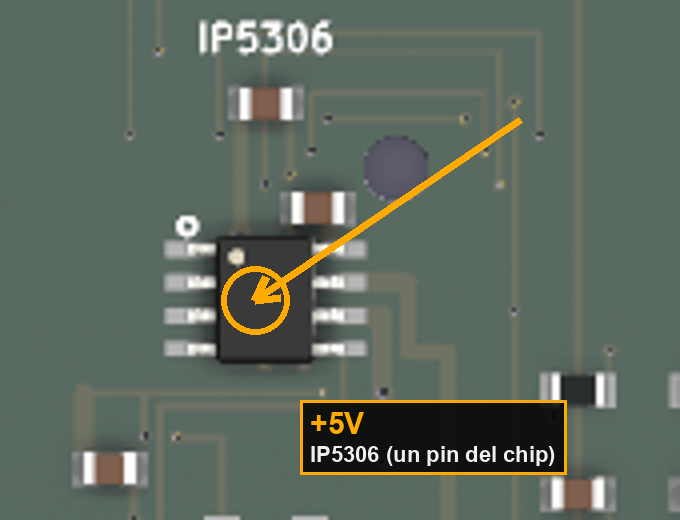
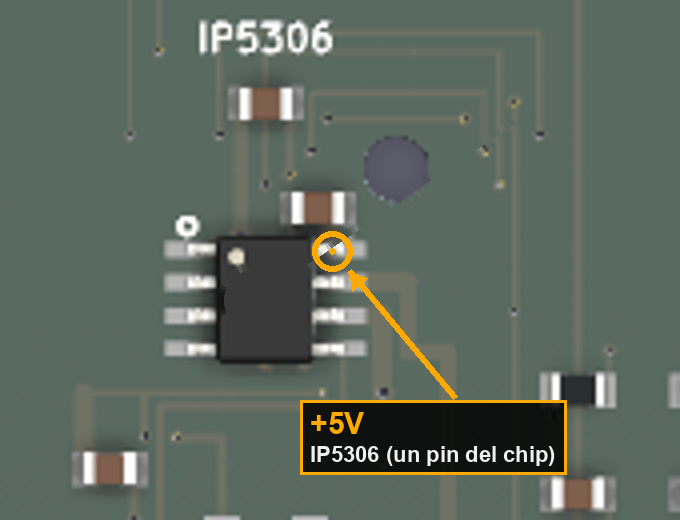
docs(bring-up): fix IP5306 pin labels + reclassify T9 short as inductor L1 false alarm
Root-cause correction on the proto #1 diagnosis:

- Fix pin annotations on 3 U2/IP5306 debug images (circles were shifted
  down one pad): short-t9-ip5306, bypass-usb-only (jumper now pin1->pin8),
  probe-5v-ip5306 (arrow now on pin8). Align doc pinout text: left col =
  pin 1-4, right col = pin 8-5 (pin1 dot top-left).

- Reclassify T9 "confirmed IP5306 internal LX<->VOUT short" as a FALSE
  ALARM: the 0 Ohm both-directions reading was taken across pin 6-7, which
  are the terminals of boost inductor L1 (verified: L1 pad1=BAT+, pad2=LX).
  An inductor is a DC short, so 0 Ohm there is normal. Correct test is
  pin 7<->8 (not bridged by L1).

- Document the real fault: repeated AMS1117 burn = linear reg dissipating
  1.7V x I, dying from a persistent +3V3-side overload (not U2). Add
  root-cause section + gate U2 removal behind a proper pin7-8 diode retest.

diff --git a/website/docs/manufacturing/short-test-multimeter.md b/website/docs/manufacturing/short-test-multimeter.md
@@ -81,9 +81,12 @@ Aim at the wide tab for +3V3 — easiest target.
 :::
 
 :::note IP5306 — exact pins (this is the ambiguity you asked about)
-The IP5306 is an eSOP-8. **+5V is pin 8**, the **top-LEFT** pin in the render.
-**VBUS is pin 1**, the **top-RIGHT** pin. The large center pad under the chip is **GND**.
-So "+5V on the IP5306" means specifically **pin 8 (top-left)**, *not* just "the chip".
+The IP5306 is an eSOP-8. The **pin-1 dot is top-LEFT** in the render, so the left
+column is pins 1–4 (top→bottom) and the right column is pins 8–5 (top→bottom).
+**VBUS is pin 1**, the **top-LEFT** pin. **+5V is pin 8**, the **top-RIGHT** pin
+(same height as pin 1). **LX is pin 7**, **BAT+ is pin 6** (below pin 8 on the right).
+The large center pad under the chip is **GND**.
+So "+5V on the IP5306" means specifically **pin 8 (top-right)**, *not* just "the chip".
 See card **T7** / **T14** below for the exact spot.
 :::
 
@@ -384,51 +387,52 @@ Find your failing test(s) in the left column → the likely root cause and where
 
 ## 5b. Current board findings — proto #1 (2026-07-14)
 
-:::danger Two findings — and the AMS1117 burn is probably NOT caused by U2
+:::danger U2 is likely fine — the AMS1117 burn is the real, separate fault
 **Symptom:** connecting only USB-C (5 V), the **AMS1117 (U3)** overheats and burns —
-repeatedly, across several replacement regulators.
+repeatedly, across several replacement regulators. **This is the real, confirmed problem.**
 
-**Confirmed:** **U2 (IP5306) has an internal LX↔VOUT short** (pin 7 ↔ pin 8 = 0 V both
-directions, no visible bridge). This breaks the battery/boost — a real defect.
+**Re-evaluated (was "confirmed U2 short"):** the T9 0 Ω was read between the **two middle-right
+pads of U2 — pin 7 (LX) and pin 6 (BAT+)**. Those two pins are the **terminals of the boost
+inductor L1** (verified in the PCB: `L1 pad 1 = BAT+, pad 2 = LX`). An inductor is a coil of
+wire → a DC short (~50–150 mΩ), so **0 Ω in both directions there is normal, not a defect.**
+The "internal LX↔VOUT short" is **not confirmed** — see the corrected T9 test below.
 
-**But does U2 explain the burning? Probably not** (earlier "over-voltage" claim retracted).
-A linear regulator that dies *repeatedly* almost always has a **short/overload on its OUTPUT
-(+3V3)**, not its input. With LX↔VOUT shorted, the +5V rail on USB is ~5 V (passed from VIN)
-or pulled *low* by the broken boost — **not** over-voltage — so the AMS1117 **input** is
-likely fine. The repeated burning points to a **+3V3-side load**: **C2 tantalum** failing
-under voltage, or a **damaged ESP32-S3**. ⚠️ **T1 (+3V3↔GND) clean at DC does NOT rule this
-out** — a tantalum leak or chip over-current shows up only *under voltage*.
+**Why the AMS1117 dies (nothing to do with U2):** it is a **linear** regulator dropping
+5 V→3.3 V, so it burns `P = (5 − 3.3)·I₃ᵥ₃ = 1.7 V · I` as heat inside a tiny SOT-223. A linear
+reg that dies *repeatedly* almost always has a **short/overload on its OUTPUT (+3V3)** —
+replacing it without removing the load simply cooks the next one. ⚠️ **T1 (+3V3↔GND) clean at
+DC does NOT rule this out** — a tantalum leak or chip over-current appears only *under voltage*.
 
-**Fix = two independent jobs:**
-- **Remove U2 + USB-only bypass** → restores a clean +5V (loses battery/charging).
-- **Find & fix the +3V3 load** ([3.3 V-side verification](#33-v-side-verification-esp32--c2))
-  — the real cause of the burning. Do it **before** trusting a fresh AMS1117.
+**Do this, in order:**
+1. **Retest U2 properly** — measure **pin 7 (LX) ↔ pin 8 (+5V)** (the *upper* pair, the one L1
+   does **not** bridge). Directional/open → U2 is healthy; drop the "remove U2" plan.
+2. **Find the +3V3 load** ([3.3 V-side verification](#33-v-side-verification-esp32--c2)) — remove
+   U3, measure +3V3↔GND: hundreds of Ω–kΩ = OK; **tens of Ω = the fault that burns your
+   regulators.** Fix it **before** fitting a fresh AMS1117.
 :::
 
-:::danger T9 = REAL short confirmed (LX↔VOUT), but no visible top-side bridge
-Diode test pin 7 (LX) ↔ pin 8 (VOUT) = **~0 V in both directions** → a genuine short, **not**
-the directional body-diode path. Yet the close-up (IMG_5647) shows **no visible solder bridge
-on top**. So the short is **hidden or internal**:
+:::danger T9 revisited — the 0 Ω is inductor L1, not a short
+The reading was between **pin 7 (LX) and pin 6 (BAT+)** — the two middle-right pads. **L1 sits
+directly across those two pins** (`BAT+ ─ L1 ─ LX`), so **0 Ω in both directions is exactly
+what a healthy board reads**: you measured the inductor's DC resistance, not a fault. That is
+*why* the "short" was so perfectly localized — L1 is the only external part tying two U2 pins
+together at near-zero Ω; every other adjacent pin pair reads open.
 
-1. **IP5306 internally shorted** — boost sync-FET failed. The board **was** powered (that's
-   how the AMS1117s burned), so internal damage is plausible — **now the leading cause**.
-2. **Hidden bridge** — on the inner/toe side of the pins or under the chip.
+**To actually test the suspected LX↔VOUT internal short**, probe the pair L1 does **not**
+bridge — **pin 7 (LX) ↔ pin 8 (+5V)**:
 
-**Fix, least-invasive first:**
-1. Inspect pins 7-8 **from the side / inner edge** — the bridge often hides behind the visible fillet.
-2. **Reflow with flux** (drag tip or hot air), even with no visible bridge → re-measure pin 7↔8:
-   directional = fixed; still 0 V both ways → step 3.
-3. **Remove U2**, measure the **bare pads** LX↔VOUT: open → under-chip bridge, clean & fit a new
-   IP5306; still shorted → PCB copper defect.
-
-Keep the battery disconnected. Do NOT power on until pin 7↔8 reads directional.
+- **directional (~0.3–0.5 V one way, open the other) or fully open** → **U2 is fine.** The whole
+  T9 alarm was L1. Move on to the +3V3 side (the real AMS1117 cause).
+- **0 Ω both ways** → *only then* is it a genuine LX↔VOUT short (internal sync-FET or a hidden
+  pin 7–8 bridge): reflow pins 7–8 with flux; still 0 Ω both ways → remove U2 and re-measure the
+  bare pads.
 :::
 
 | Test | Nets | Result | Localized to | Verdict |
 |------|------|--------|--------------|---------|
 | +3V3 ↔ GND (T1) | +3V3 / GND | no beep | — | ✅ clean |
 | +5V ↔ GND (T2) | +5V / GND | no beep | — | ✅ clean |
-| **T9** | **BAT+ ↔ +5V** | 0 V both dirs | **IP5306 U2 pin 7 (LX) ↔ pin 8 (+5V)** — internal short (no visible bridge) | 🔴 **REAL — remove U2** |
+| **T9** | **BAT+ ↔ +5V** (pin 6 ↔ pin 8) | 0 Ω recorded — but probes hit **pin 6–7** | mislabeled image → wrong pads; **pin 6–7 = inductor L1**, 0 Ω by design | ✅ **NOT a defect** — re-run in diode mode (directional = healthy chip) |
 | **T17** | USB D+ ↔ GND | U4 pin 3 ↔ pin 4 = 0 Ω; **pin 2 (GND) verified isolated** | pin 3 & 4 are **both USB_D+** (same net) | ✅ **NOT a defect** (false alarm) |
 | T3/T4/T5, T6, T8, T10, T12 | rails & rail-pairs | verified | — | ✅ all clean |
 | E2 — SD (U6) | SPI + power | verified | — | ✅ clean |
@@ -437,21 +441,31 @@ Keep the battery disconnected. Do NOT power on until pin 7↔8 reads directional
 | E5 — I2S bus (U1 pins 8-10) | BCLK/LRCK/DOUT | verified | — | ✅ clean |
 | USB-C (J1) | photo inspection + T17 | solder OK, CC pull-down (5101) present | — | ✅ clean (T17 already verified) |
 
-**Bottom line:** the whole board is clean **except U2's internal short** (IP5306 pin 7–8).
-Separately, the repeated AMS1117 burning is most likely a **+3V3-side load** (see root cause).
+**Bottom line:** no confirmed short on U2 — the T9 0 Ω is the inductor L1. The **one real fault
+is the repeated AMS1117 burning**, and it points to a **+3V3-side overload** (see root cause).
 
-### Confirmed defect — IP5306 internal LX↔VOUT short (NOT a solder bridge)
+### T9 re-evaluated — the 0 Ω is inductor L1, not an IP5306 short {#t9-inductor-l1}
 
-BAT+ reaches +5V only through `L1 → SW(LX) → sync-rectifier`. A both-direction 0 Ω means
-that diode is bypassed. Probing localized it to **IP5306 (U2) pin 7 (LX) ↔ pin 8 (+5V)**,
-but the close-up shows **no visible solder bridge** → the short is **internal to the chip**
-(boost sync-FET failed short). The fix is the same either way: **remove U2**.
+The 0 Ω was read between **pin 7 (LX) and pin 6 (BAT+)** — the two middle-right pads. In the
+boost, **BAT+ connects to LX through inductor L1** (verified: `L1 pad 1 = BAT+, pad 2 = LX`). An
+inductor is a piece of wire → a DC short (~50–150 mΩ), so a multimeter reads **~0 Ω in both
+directions there on a perfectly healthy board.** This is exactly *why* the "short" looked so
+localized: L1 is the only external part tying two U2 pins together at near-zero Ω; every other
+adjacent pin pair reads open.
 
-![T9 suspect — IP5306](/img/debug/short-t9-ip5306.png)
+Two things compounded into the false "confirmed short":
 
-**Consequence:** +5V is welded to the battery net. On USB power the boost is broken; **with
-a battery attached, 5 V would be forced onto a 3.7 V cell → overcharge/fire risk.** Keep the
-battery disconnected until fixed.
+1. The **mislabeled T9 image** (now fixed) shifted the pin circles down one pad, so the probes
+   actually landed on **pin 6–7** while being read as "pin 7–8 (LX↔+5V)".
+2. Even so, **pin 6↔7 = across L1 = 0 Ω expected** — it proves nothing about the chip.
+
+**Correct test:** measure **pin 7 (LX) ↔ pin 8 (+5V)** (the pair L1 does *not* bridge).
+Directional/open → **U2 is healthy**; the real problem is the AMS1117 / +3V3 side above.
+
+![T9 — IP5306 pins (pin 6–7 are the inductor L1 terminals)](/img/debug/short-t9-ip5306.png)
+
+**Only if** pin 7↔8 truly reads 0 Ω both ways does the internal-short story apply (then +5V would
+be welded to the battery net — keep the battery disconnected until that pair reads directional).
 
 ### T17 — false alarm (resolved)
 
@@ -561,8 +575,38 @@ the jumper, VBUS ↔ +5V = 0 Ω (intended) and +5V ↔ GND still open. Then powe
 
 ### 3.3 V-side verification (ESP32 + C2) {#33-v-side-verification-esp32--c2}
 
-A past +5V over-voltage event may have damaged what the AMS1117 feeds. Check this **before**
-trusting a fresh regulator, otherwise the new AMS1117 may burn again from a downstream load.
+#### Why the AMS1117 burns — root cause
+
+The repeated AMS1117 death is the **one real, confirmed fault** on proto #1 — and it is
+**not** related to U2/L1 (that was a false alarm; see [T9 re-evaluated](#t9-inductor-l1)).
+
+The AMS1117 is a **linear** regulator: it drops 5 V→3.3 V by dissipating the difference as
+**heat** inside a tiny SOT-223.
+
+```
+P = (Vin − Vout) × I₃ᵥ₃ = 1.7 V × I₃ᵥ₃
+```
+
+- ~500 mA (ESP32-S3 WiFi TX + display): **P ≈ 0.85 W** → with modest copper the junction runs
+  ~100 °C. Hot, but it survives.
+- Pushed into **current-limit / a partial short** (~1 A): **P ≈ 1.7 W** → junction well past
+  150 °C → death.
+- A **hard short on +3V3**: full current at ≥1.7 V across the part → it cooks **instantly**.
+
+**The decisive clue is that it died *repeatedly*, across several regulators.** A linear reg
+that dies again and again almost always has a **persistent short/overload on its OUTPUT
+(+3V3)** — swapping the regulator without removing the load just cooks the next one. So the
+genuine short you were hunting is on the **+3.3 V rail**, not on U2. Likely culprits, in order:
+
+1. **Solder bridge / short** on the dense ESP32-S3 3V3 pins or its decoupling caps.
+2. **Damaged ESP32-S3 (U1)** drawing excessive current (e.g. from a bypass-jumper slip that put
+   5 V onto 3V3).
+3. **`LCD_BL` backlight** mis-wired / over-drawing on +3V3.
+4. **C2 tantalum** failed short (polarity is audited-correct, but inrush can still short a
+   tantalum — verify by ohm-check).
+
+⚠️ **A clean T1 (+3V3↔GND) at DC does NOT clear this** — a leaky tantalum or an over-current IC
+only shows up *under voltage*. Do the checks below **before** trusting a fresh regulator.
 
 **Step 1 — C2 tantalum (22 µF on +3V3).** Tantalums fail **short**; C2 is already flagged as
 a suspect in this project.
@@ -587,8 +631,9 @@ a suspect in this project.
 
 ![Step 3 — ESP32 3.3V side](/img/debug/v33-esp32-test.png)
 
-**Order of repair:** fix U2 (remove + bypass) → replace AMS1117 → check C2 → power-on
-current-limited → if still hot, suspect U1.
+**Order of repair:** retest U2 pin 7↔8 (diode — probably fine, skip removal) → **find & clear
+the +3V3 load** (C2, then U1) → fit a fresh AMS1117 → power-on current-limited → if still hot,
+the +3V3 load is not gone.
 
 ---
 
@@ -611,7 +656,7 @@ Fill this in per board. `✅` = no beep / expected. `🔴` = short found.
 
 | Date | Board | T1 3V3-GND | T2 5V-GND | T9 BAT-5V | T17 D+-GND | T6 5V-3V3 | T8 VBUS-3V3 | Power-on mA | Notes |
 |------|-------|-----------|-----------|-----------|------------|-----------|-------------|-------------|-------|
-| 2026-07-14 | proto #1 | ✅ | ✅ | 🔴 SHORT | ✅ (false alarm) | ✅ | ✅ | ⛔ not yet | **Full board swept clean** (power rails, SD, audio, J4 display, I2S, USB-C). Only real defect: **IP5306 pin 7–8** (LX↔VOUT) → BAT+=+5V. Rework U2 → then controlled power-on |
+| 2026-07-14 | proto #1 | ✅ | ✅ | ⚠️ L1 (false alarm) | ✅ (false alarm) | ✅ | ✅ | ⛔ not yet | **Full board swept clean.** T9 "short" was **inductor L1** across pin 6–7 (mislabeled image) — **no confirmed U2 short**. **Real fault: AMS1117 (U3) burns repeatedly → +3V3-side overload.** Retest U2 pin 7↔8 (diode), then hunt the +3V3 load before fitting a new AMS1117 |
 
 ---
 
@@ -621,11 +666,12 @@ Everything needed to get proto #1 running, start to finish. **Keep the battery
 disconnected** until the very end; power only from a **current-limited bench supply
 (5 V, 100 mA)** or a USB source you can monitor.
 
-### A. Remove the fault (IP5306)
-- [ ] **Remove U2 (IP5306)** — hot air ~350 °C, or Chip-Quik / solder-blob method with an iron.
-- [ ] Clean the pads (wick + flux).
-- [ ] **Verify short is gone:** empty-footprint **pin 7 pad ↔ pin 8 pad = open** (confirms the
-      short was inside the chip).
+### A. First: confirm U2 is actually faulty (probably it isn't)
+- [ ] **Diode mode, pin 7 (LX) ↔ pin 8 (+5V)** — the pair L1 does *not* bridge.
+      **Directional or open → U2 is healthy, SKIP the removal**, go straight to C.
+      *(Do not judge pin 6↔7: that's just inductor L1 = 0 Ω by design — the T9 false alarm.)*
+- [ ] **Only if pin 7↔8 = 0 Ω both ways:** remove U2 (hot air ~350 °C / Chip-Quik), clean the
+      pads (wick + flux), and confirm empty-footprint **pin 7 pad ↔ pin 8 pad = open**.
 
 ### B. USB-only bypass (gives up battery + charging)
 - [ ] Solder a jumper **VBUS (pin 1 pad) → +5V (pin 8 pad)** across the top of the U2 footprint.